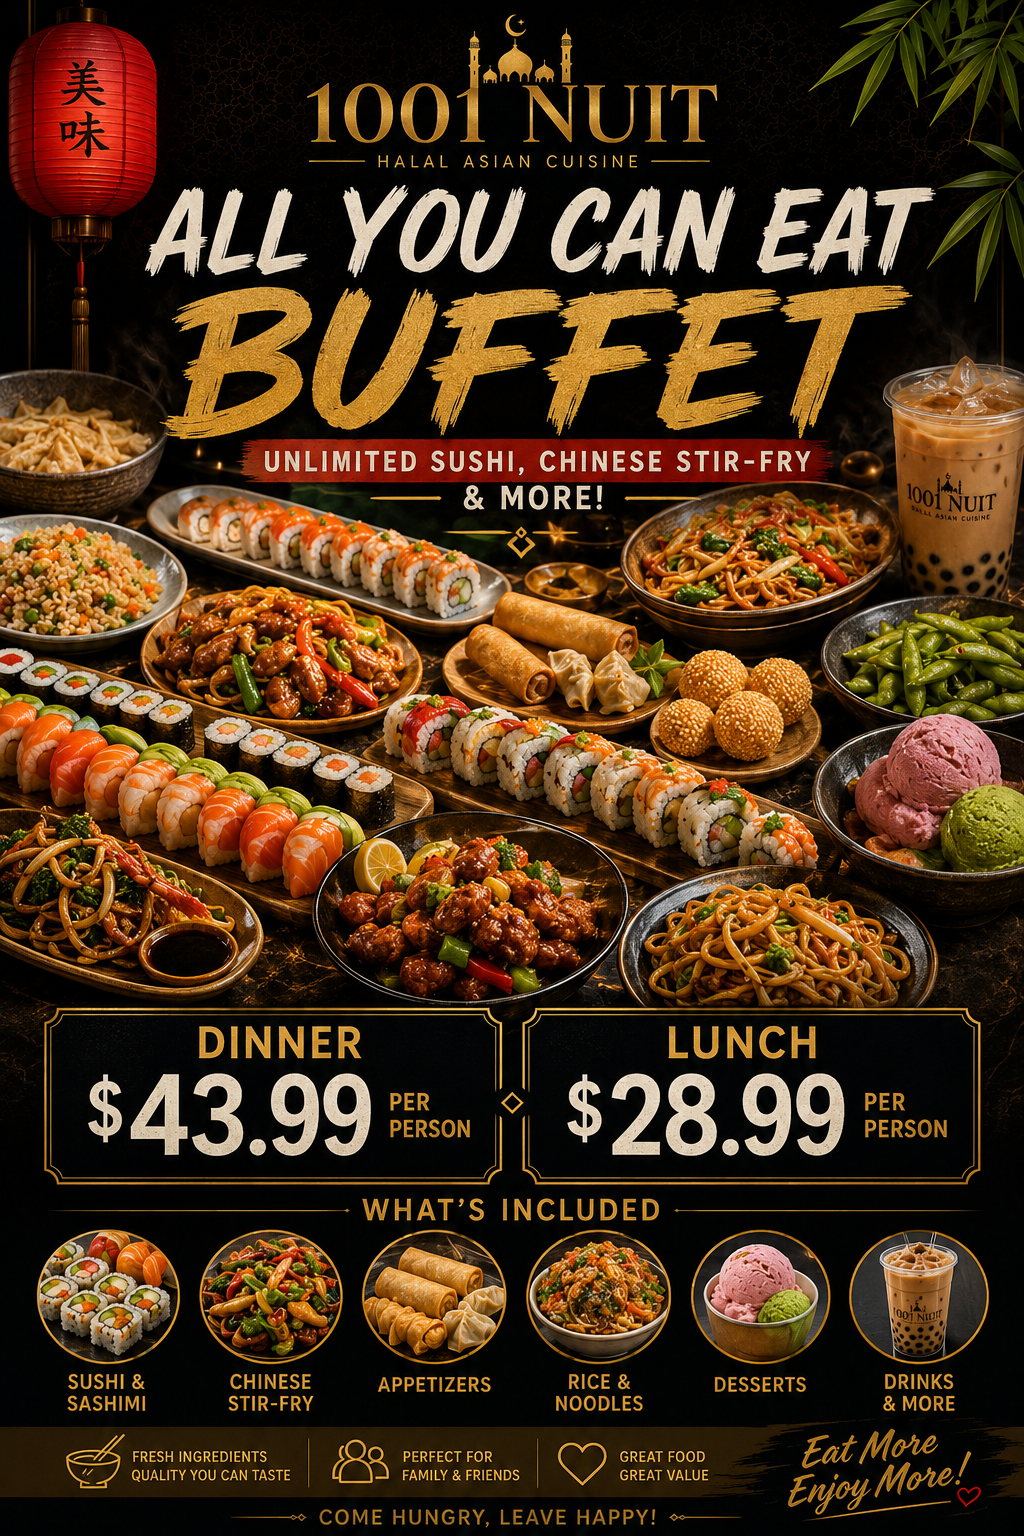
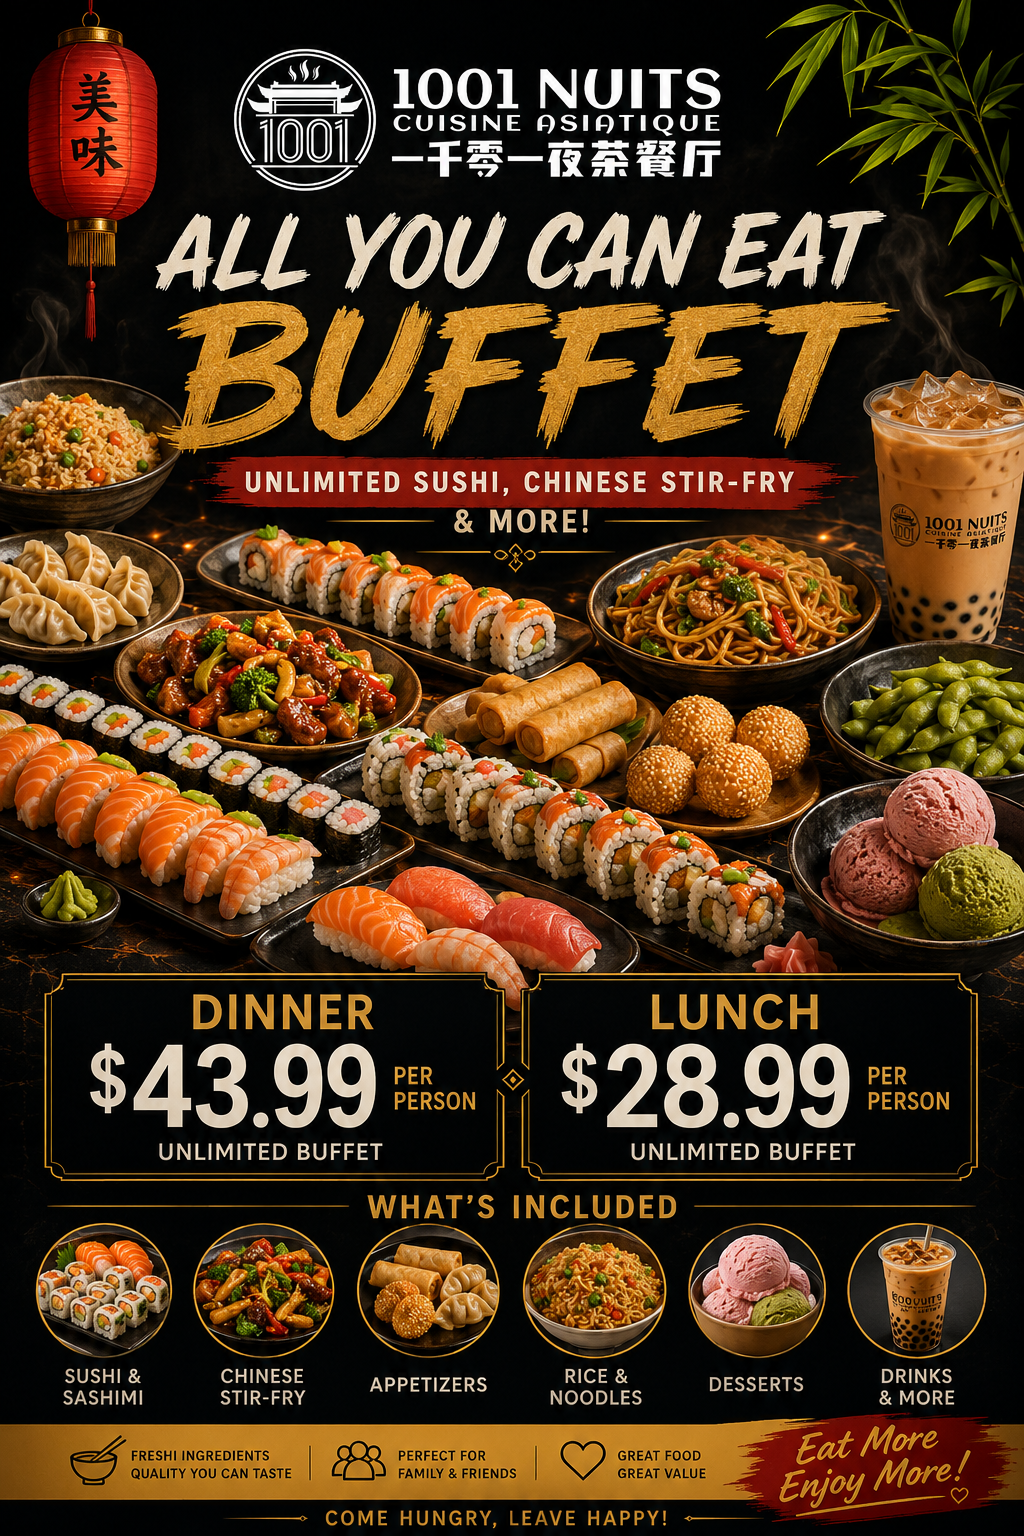
feat: buffet promotion popup image, remove 30+ unused public assets

diff --git a/src/HomePage.tsx b/src/HomePage.tsx
@@ -1826,7 +1826,7 @@ export default function HomePage() {
               {/* Image Container */}
               <div className="w-full aspect-auto flex items-center justify-center bg-[#0a0b0a]">
                 <img
-                  src="/promotion.webp"
+                  src={encodeURI("/buffet promotion.png")}
                   alt="Promotion"
                   decoding="async"
                   className="w-full h-auto max-h-[75vh] object-contain select-none"

diff --git a/src/components/SocialFeedback.tsx b/src/components/SocialFeedback.tsx
@@ -26,7 +26,7 @@ const BACKGROUND_IMAGES = [
   { src: "/menu.webp", size: "w-24 h-24 md:w-36 md:h-36", pos: "top-[12%] right-[4%]" },
   { src: "/dessert.webp", size: "w-28 h-28 md:w-36 md:h-36", pos: "top-[45%] right-[2%]" },
   { src: "/drink.webp", size: "w-32 h-32 md:w-40 md:h-40", pos: "bottom-[8%] right-[6%]" },
-  { src: "/promotion.webp", size: "w-24 h-24 md:w-32 md:h-32", pos: "bottom-[45%] left-[12%]" },
+  { src: encodeURI("/buffet promotion.png"), size: "w-24 h-24 md:w-32 md:h-32", pos: "bottom-[45%] left-[12%]" },
   { src: "/Beef Balls in Hong Kong Style Curry (12 pcs).webp", size: "w-28 h-28 md:w-36 md:h-36", pos: "top-[25%] right-[15%]" },
   { src: "/Crispy Chicken Wings with Potato Salad or Fries.webp", size: "w-24 h-24 md:w-32 md:h-32", pos: "bottom-[30%] right-[14%]" },
 ];